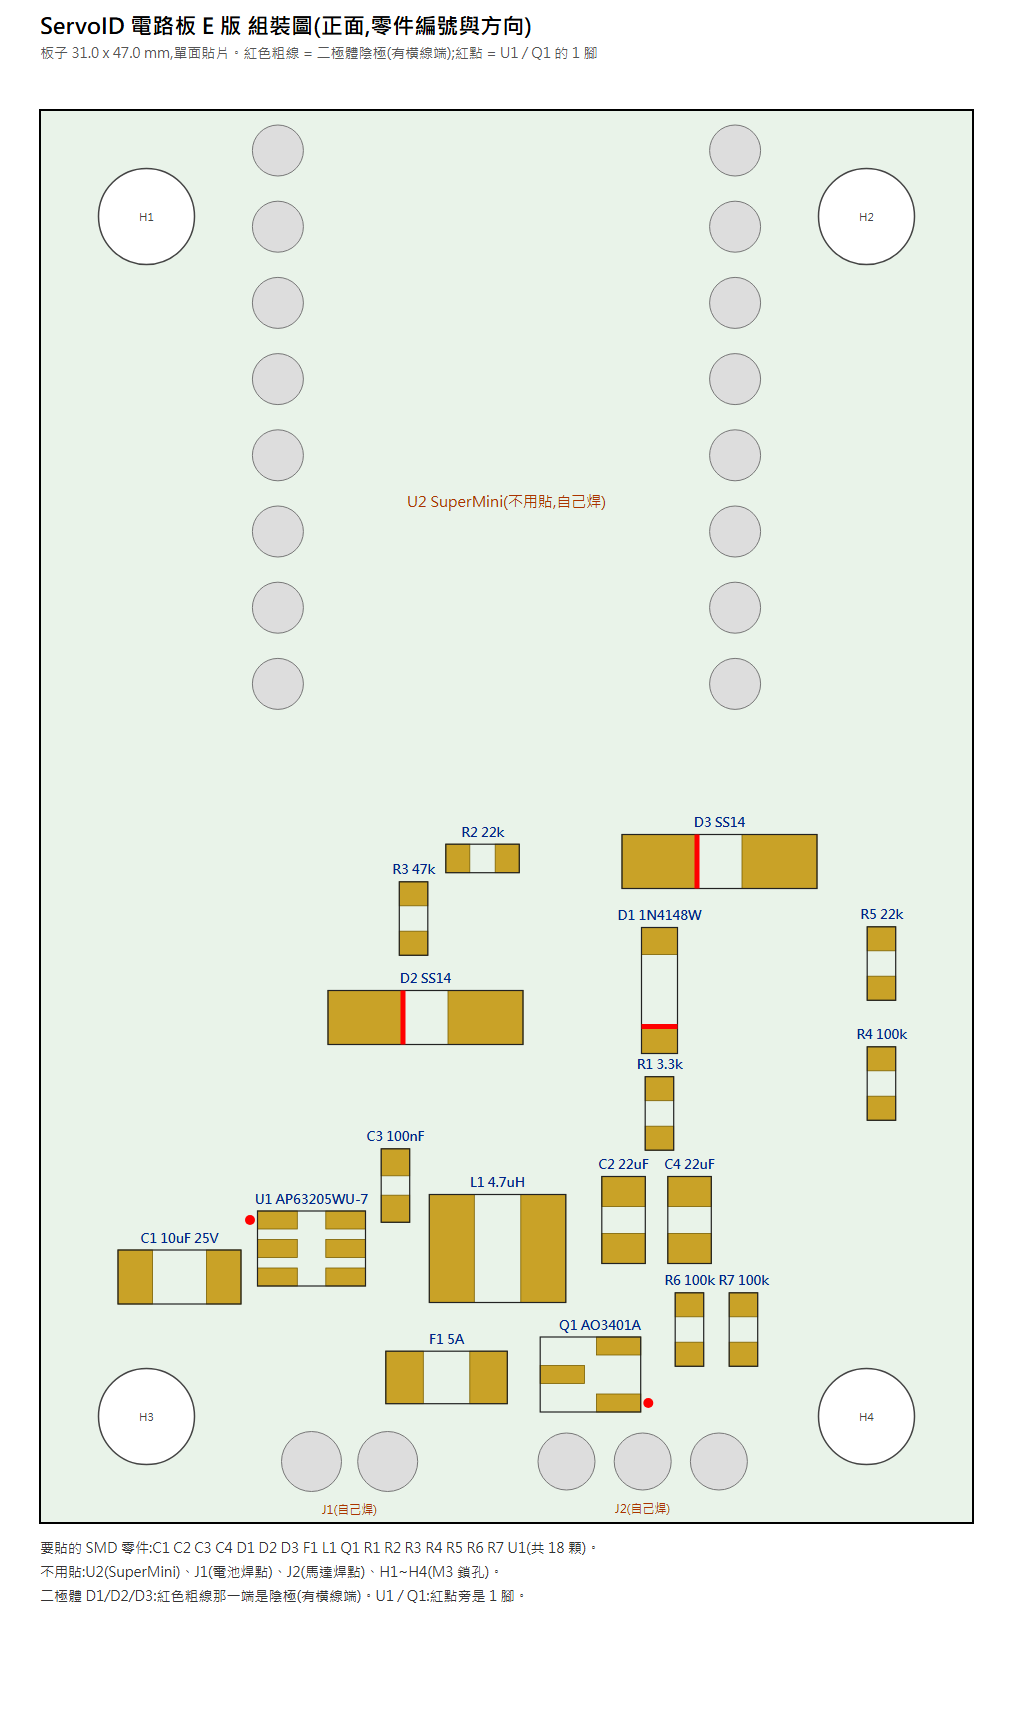
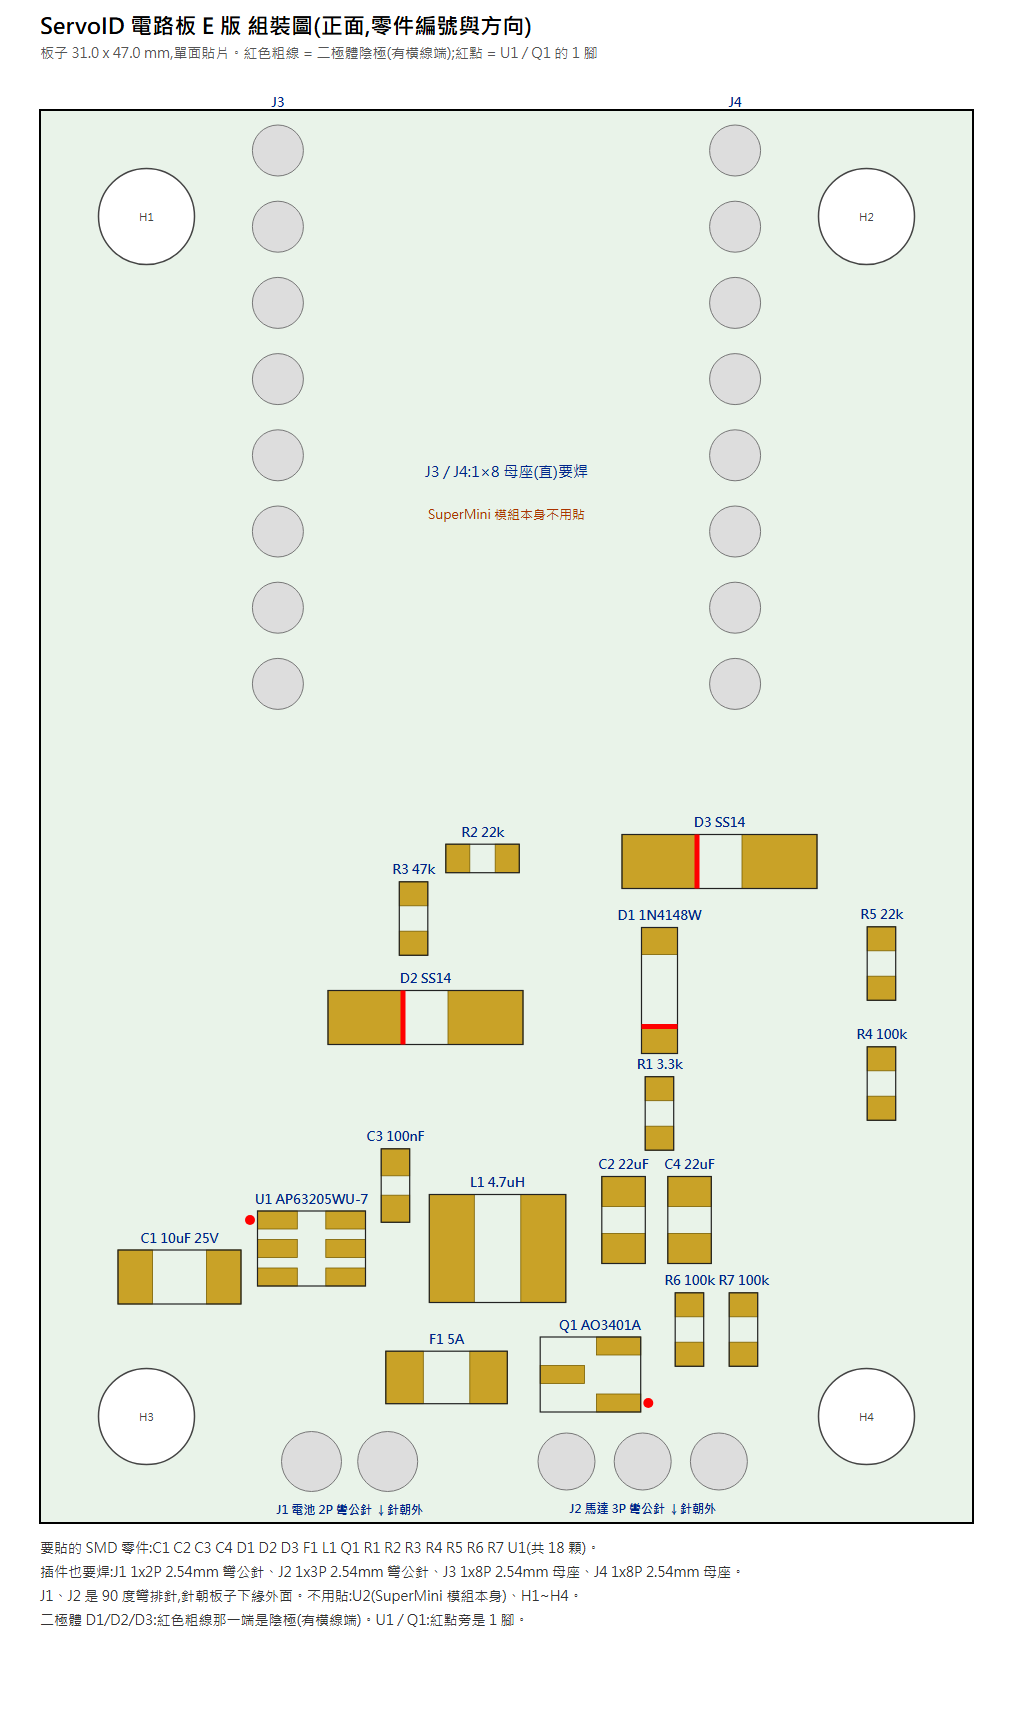
ServoID E board: JLCPCB through-hole assembly (pin headers + SuperMini sockets), English-named upload files
- tht_parts.py: J1 2P / J2 3P right-angle male headers (C54907645 / C54907646), J3/J4 1x8P female sockets (C27438)
- make_order_pack.py / assembly_svg.py: read tht_parts.py, add the parts to BOM/CPL/assembly drawing/spec, note Standard PCBA is required
- make_upload.py + Upload_E/: JLCPCB upload page only accepts English file names; English-only BOM/CPL/Gerber copies
- E order pack regenerated

Changed region(s): [[0.0304, 0.8628, 0.5167, 0.9552], [0.4255, 0.2465, 0.5775, 0.3081], [0.5775, 0.8628, 0.699, 0.8936]]

diff --git a/ServoID_Module/PCB/make_order_pack.py b/ServoID_Module/PCB/make_order_pack.py
@@ -15,6 +15,9 @@ b = pcbnew.LoadBoard(os.path.join(HERE, "ServoID_%s.kicad_pcb" % v))
 bb = b.GetBoardEdgesBoundingBox()
 BW, BH = round(bb.GetWidth() / 1e6 - 0.1, 1), round(bb.GetHeight() / 1e6 - 0.1, 1)
 smd = sorted(fp.GetReference() for fp in b.GetFootprints() if fp.GetAttributes() & pcbnew.FP_SMD)
+sys.path.insert(0, HERE)
+from tht_parts import THT
+tht = THT.get(v, [])          # 這一版要 JLCPCB 代焊的插件(排針 / 母座)
 HOLE_NAME = {"U2": "SuperMini", "J1": "電池焊點", "J2": "馬達焊點"}
 holes = {}
 for fp in sorted(b.GetFootprints(), key=lambda f: f.GetReference()):
@@ -47,6 +50,8 @@ with open(os.path.join(dest, "03_CPL_零件位置.csv"), "w", newline="", encodi
             rot_notes.append("%s(%s):KiCad %s° → 檔案內 %d°" % (r[0], r[2], r[5], new))
             r = r[:5] + [str(new)] + r[6:]
         w.writerow(r)
+    for t in tht:             # 插件:座標是焊孔中心,角度已經是 JLC 的方向
+        w.writerow([t[0], t[1], t[2], "%.4f" % t[4], "%.4f" % -t[5], str(t[6]), "top"])
 shutil.copy(os.path.join(fab, "preview_top.png"), os.path.join(dest, "07_預覽_上層.png"))
 shutil.copy(os.path.join(fab, "preview_bottom.png"), os.path.join(dest, "07_預覽_下層.png"))
 
@@ -76,6 +81,11 @@ with open(os.path.join(dest, "02_BOM_零件清單.csv"), "w", newline="", encodi
     w.writerow(rows[0] + ["Spec / 規格說明"])
     for r in rows[1:]:
         w.writerow(r[:4] + [LCSC.get(r[0], "")] + [SPEC.get(r[0], "")])
+    groups = collections.OrderedDict()
+    for t in tht:
+        groups.setdefault(t[3], []).append(t)
+    for lc, ts in groups.items():
+        w.writerow([ts[0][1], ",".join(t[0] for t in ts), ts[0][2], len(ts), lc, ts[0][7]])
 
 # 4 組裝圖
 K = r"C:\Program Files\KiCad\10.0\bin\python.exe"
@@ -120,7 +130,7 @@ open(os.path.join(dest, "05_板子規格與組裝說明.md"), "w", encoding="utf
 
 ## 組裝(SMT)/ Assembly
 - 只貼**頂層(Top side)**,%d 顆 SMD 零件:%s。
-- **不要貼:** U2(ESP32-C3 SuperMini 模組)、J1(電池焊點)、J2(馬達焊點)、H1~H4(M3 鎖孔)。這些是通孔焊盤 / 孔,由客戶自己焊。
+%s
 - 二極體 D1 D2 D3 有極性:組裝圖上紅色粗線那端是陰極(有橫線端)。U1%s 的 1 腳位置見組裝圖(紅點)。
 - 零件規格見 `02_BOM_零件清單.csv` 的 Spec 欄。LCSC 料號欄已填 JLCPCB / LCSC 料號(C 版實際下單、測試可用的那一組%s);給其他廠商時請依 Spec 欄對應。
 - 零件位置檔 `03_CPL_零件位置.csv`:座標單位 mm,Y 軸朝上(KiCad 輸出格式),Mid Y 為負值是正常的。
@@ -135,7 +145,13 @@ open(os.path.join(dest, "05_板子規格與組裝說明.md"), "w", encoding="utf
 6. `06_詢價信範本.txt`
 7. `07_預覽_上層.png` / `07_預覽_下層.png`
 8. `08_接線表_網路.csv`:每個網路接了哪些腳(給確認用)
-""" % (v, BW, BH, hole_txt, len(smd), " ".join(smd), "、Q1" if has_q else "",
+""" % (v, BW, BH, hole_txt, len(smd), " ".join(smd),
+       ("- **插件也請代焊(要選 Standard PCBA,Economic 不焊插件)**,都在頂層:" + "、".join("%s %s(%s)" % (t[0], t[1], t[3]) for t in tht) + "。\n"
+        "  - **J1、J2 是 90 度彎排針,針要朝板子下緣外面**(往內會撞到 Q1 和保險絲);請在擺放預覽確認方向。\n"
+        "  - J3、J4 是 SuperMini 的插座(兩條單排,相距 15.24 mm);SuperMini 模組本身不用貼,客戶自己插。\n"
+        "- **不要貼:** U2(ESP32-C3 SuperMini 模組)、H1~H4(M3 鎖孔)。") if tht else
+       "- **不要貼:** U2(ESP32-C3 SuperMini 模組)、J1(電池焊點)、J2(馬達焊點)、H1~H4(M3 鎖孔)。這些是通孔焊盤 / 孔,由客戶自己焊。",
+       "、Q1" if has_q else "",
        ";Q1 = C15127 是這版新增的" if has_q else "", ";".join(rot_notes),
        """
 ## 這一版和 C 版的差別 / Changes from version C
@@ -157,7 +173,7 @@ open(os.path.join(dest, "06_詢價信範本.txt"), "w", encoding="utf-8").write(
 
 【SMT 組裝】
 - 只貼頂層,共 %d 顆 SMD(%d 種料號):%s
-- SuperMini 模組與接線焊點由我自己焊,不用貼
+%s
 - 組裝數量:2 片(或 5 片)
 
 【想請教】
@@ -170,7 +186,9 @@ open(os.path.join(dest, "06_詢價信範本.txt"), "w", encoding="utf-8").write(
 檔案說明請看 `05_板子規格與組裝說明.md`。謝謝!
 
 (附件:01_Gerber和鑽孔.zip、02_BOM_零件清單.csv、03_CPL_零件位置.csv、04_組裝圖_零件編號與方向.png、05_板子規格與組裝說明.md)
-""" % (BW, BH, BW, BH, len(smd), len(rows) - 1, cat_txt))
+""" % (BW, BH, BW, BH, len(smd), len(rows) - 1, cat_txt,
+       ("- 插件也請代焊:" + "、".join("%s %s" % (t[0], t[1]) for t in tht) + "(J1、J2 是 90 度彎排針,針朝板子外面)\n- SuperMini 模組本身由我自己插,不用貼")
+       if tht else "- SuperMini 模組與接線焊點由我自己焊,不用貼"))
 
 # 8 接線表
 nets = collections.defaultdict(list)

diff --git a/ServoID_Module/PCB/assembly_svg.py b/ServoID_Module/PCB/assembly_svg.py
@@ -12,6 +12,12 @@ ox, oy = bb.GetX() / 1e6, bb.GetY() / 1e6
 def X(mm): return M + (mm - ox) * S
 def Y(mm): return M + 70 + (mm - oy) * S
 smd_refs = sorted(fp.GetReference() for fp in b.GetFootprints() if fp.GetAttributes() & pcbnew.FP_SMD)
+sys.path.insert(0, HERE)
+from tht_parts import THT
+tht = THT.get(v, [])          # 這一版要 JLCPCB 代焊的插件:組裝圖上標出來
+tht_on = {}                   # 原本的焊盤位號 → 這上面要焊的插件
+for t in tht:
+    tht_on.setdefault(t[9], []).append(t)
 PIN1 = [r for r in ("U1", "Q1") if r in smd_refs]      # 要標 1 腳紅點的零件
 out = []
 out.append('<svg xmlns="http://www.w3.org/2000/svg" width="%d" height="%d" font-family="Microsoft JhengHei, Arial">' % (W * S + 2 * M, H * S + 2 * M + 70 + 150))
@@ -66,14 +72,26 @@ for fp in b.GetFootprints():
             c = p.GetPosition()
             r = p.GetSizeX() / 2e6
             out.append('<circle cx="%.1f" cy="%.1f" r="%.1f" fill="#ddd" stroke="#777" stroke-width="1"/>' % (X(c.x / 1e6), Y(c.y / 1e6), r * S))
-        if ref == "U2":
+        if ref in tht_on and ref == "U2":
+            out.append('<text x="%.1f" y="%.1f" font-size="15" text-anchor="middle" fill="#00258a">J3 / J4:1×8 母座(直)要焊</text>' % (X(cx), Y(cy + 2)))
+            out.append('<text x="%.1f" y="%.1f" font-size="13" text-anchor="middle" fill="#a30">SuperMini 模組本身不用貼</text>' % (X(cx), Y(cy + 3.4)))
+            for t in tht_on[ref]:
+                out.append('<text x="%.1f" y="%.1f" font-size="13" font-weight="bold" text-anchor="middle" fill="#00258a">%s</text>' % (X(t[4]), Y(miny - 0.6), t[8]))
+        elif ref in tht_on:
+            t = tht_on[ref][0]
+            out.append('<text x="%.1f" y="%.1f" font-size="12" font-weight="bold" text-anchor="middle" fill="#00258a">%s ↓針朝外</text>' % (X(cx), Y(maxy + 0.75), t[8]))
+        elif ref == "U2":
             out.append('<text x="%.1f" y="%.1f" font-size="15" text-anchor="middle" fill="#a30">U2 SuperMini(不用貼,自己焊)</text>' % (X(cx), Y(cy + 3)))
         else:
             below = (oy + H - 0.1) - maxy >= 0.9      # 焊點下方到板邊還有空間就標在下方(上方可能有零件)
             out.append('<text x="%.1f" y="%.1f" font-size="12" text-anchor="middle" fill="#a30">%s(自己焊)</text>' % (X(cx), Y(maxy + 0.75) if below else Y(miny - 0.5), ref))
 out.append('<text x="%d" y="%.1f" font-size="14" fill="#333">要貼的 SMD 零件:%s(共 %d 顆)。</text>' % (M, Y(oy) + H * S + 30, " ".join(smd_refs), len(smd_refs)))
-out.append('<text x="%d" y="%.1f" font-size="14" fill="#333">不用貼:U2(SuperMini)、J1(電池焊點)、J2(馬達焊點)、H1~H4(M3 鎖孔)。</text>' % (M, Y(oy) + H * S + 54))
-out.append('<text x="%d" y="%.1f" font-size="14" fill="#333">二極體 D1/D2/D3:紅色粗線那一端是陰極(有橫線端)。%s:紅點旁是 1 腳。</text>' % (M, Y(oy) + H * S + 78, " / ".join(PIN1)))
+if tht:
+    out.append('<text x="%d" y="%.1f" font-size="14" fill="#333">插件也要焊:%s。</text>' % (M, Y(oy) + H * S + 54, "、".join("%s %s" % (t[0], t[1]) for t in tht)))
+    out.append('<text x="%d" y="%.1f" font-size="14" fill="#333">J1、J2 是 90 度彎排針,針朝板子下緣外面。不用貼:U2(SuperMini 模組本身)、H1~H4。</text>' % (M, Y(oy) + H * S + 78))
+else:
+    out.append('<text x="%d" y="%.1f" font-size="14" fill="#333">不用貼:U2(SuperMini)、J1(電池焊點)、J2(馬達焊點)、H1~H4(M3 鎖孔)。</text>' % (M, Y(oy) + H * S + 54))
+out.append('<text x="%d" y="%.1f" font-size="14" fill="#333">二極體 D1/D2/D3:紅色粗線那一端是陰極(有橫線端)。%s:紅點旁是 1 腳。</text>' % (M, Y(oy) + H * S + (102 if tht else 78), " / ".join(PIN1)))
 out.append('</svg>')
 open(os.path.join(HERE, "assembly_%s.svg" % v), "w", encoding="utf-8").write("\n".join(out))
 print("ok")

diff --git a/ServoID_Module/PCB/make_upload.py b/ServoID_Module/PCB/make_upload.py
@@ -1,0 +1,34 @@
+# JLCPCB 上傳頁只收「英文檔名」,內容也最好是英文。從 下單資料_<版本>\ 產生一份上傳用的三個檔。
+# 用法: python make_upload.py E   → Upload_E\ServoID_E_Gerber.zip / ServoID_E_BOM.csv / ServoID_E_CPL.csv
+import csv, os, shutil, sys
+HERE = os.path.dirname(os.path.abspath(__file__))
+v = sys.argv[1]
+src = os.path.join(HERE, "下單資料_%s版" % v)
+dst = os.path.join(HERE, "Upload_%s" % v)
+os.makedirs(dst, exist_ok=True)
+for f in os.listdir(dst):
+    os.remove(os.path.join(dst, f))
+# 中文品名 → 英文(只有排針 / 母座用到)
+EN = {"1x2P 2.54mm 彎公針": "Pin header 1x2P 2.54mm right angle", "1x3P 2.54mm 彎公針": "Pin header 1x3P 2.54mm right angle",
+      "1x8P 2.54mm 母座": "Female header 1x8P 2.54mm vertical"}
+shutil.copy(os.path.join(src, "01_Gerber和鑽孔.zip"), os.path.join(dst, "ServoID_%s_Gerber.zip" % v))
+rows = list(csv.reader(open(os.path.join(src, "02_BOM_零件清單.csv"), encoding="utf-8-sig")))
+with open(os.path.join(dst, "ServoID_%s_BOM.csv" % v), "w", newline="", encoding="utf-8") as f:
+    w = csv.writer(f)
+    for i, r in enumerate(rows):
+        r = r[:5]                                   # Comment, Designator, Footprint, Quantity, LCSC Part #(不要中文說明欄)
+        if i: r[0] = EN.get(r[0], r[0])
+        w.writerow(r)
+rows = list(csv.reader(open(os.path.join(src, "03_CPL_零件位置.csv"), encoding="utf-8")))
+with open(os.path.join(dst, "ServoID_%s_CPL.csv" % v), "w", newline="", encoding="utf-8") as f:
+    w = csv.writer(f)
+    for i, r in enumerate(rows):
+        if i: r[1] = EN.get(r[1], r[1])
+        w.writerow(r)
+bad = []
+for f in os.listdir(dst):
+    if f.endswith(".csv") and any(ord(c) > 127 for c in open(os.path.join(dst, f), encoding="utf-8").read()):
+        bad.append(f)
+print("OK ->", dst)
+for f in sorted(os.listdir(dst)):
+    print("  ", f, "(still has non-ASCII)" if f in bad else "")

diff --git a/ServoID_Module/PCB/tht_parts.py b/ServoID_Module/PCB/tht_parts.py
@@ -1,0 +1,21 @@
+# 請 JLCPCB 代焊的插件(排針 / 母座),要選 Standard PCBA。沒列在這裡的版本 = 插件都自己焊。
+# 每一項:(位號, 名稱, 封裝, LCSC 料號, 中心 x, 中心 y(KiCad 座標 mm,y 向下), JLC 角度, 規格說明, 組裝圖標示, 板子上原本的焊盤位號)
+# 角度依據:JLCPCB 零件頁的 EasyEDA 封裝圖(2026-10-15 看過)
+#   彎排針 C54907645 / C54907646:0° = 一排焊孔、1 腳在左、針往下伸 → 板子上針朝下緣外面,就是 0°
+#   母座 C27438:0° = 橫的一排、1 腳在左 → SuperMini 的孔是直的,轉 270°(1 腳在上)
+THT = {
+    "E": [
+        ("J1", "1x2P 2.54mm 彎公針", "PinHeader_1x02_P2.54mm_Horizontal", "C54907645", 10.27, 45.0, 0,
+         "電池接頭:2.54 mm 單排 2P 公排針,90 度彎(SHOU HAN PZ2.54-1x2PWZ),針朝板子下緣外面;1 腳 = −、2 腳 = +",
+         "J1 電池 2P 彎公針", "J1"),
+        ("J2", "1x3P 2.54mm 彎公針", "PinHeader_1x03_P2.54mm_Horizontal", "C54907646", 20.04, 45.0, 0,
+         "馬達接頭:2.54 mm 單排 3P 公排針,90 度彎(SHOU HAN PZ2.54-1x3PWZ),針朝板子下緣外面;1 腳起 GND / PWR / SIG",
+         "J2 馬達 3P 彎公針", "J2"),
+        ("J3", "1x8P 2.54mm 母座", "PinSocket_1x08_P2.54mm_Vertical", "C27438", 7.88, 10.19, 270,
+         "SuperMini 插座:2.54 mm 單排 8P 母座,直插,高 8.5 mm(BOOMELE)。J3 左排、J4 右排,SuperMini 模組本身不用貼(客戶自己插)",
+         "J3", "U2"),
+        ("J4", "1x8P 2.54mm 母座", "PinSocket_1x08_P2.54mm_Vertical", "C27438", 23.12, 10.19, 270,
+         "SuperMini 插座:2.54 mm 單排 8P 母座,直插,高 8.5 mm(BOOMELE)。J3 左排、J4 右排,SuperMini 模組本身不用貼(客戶自己插)",
+         "J4", "U2"),
+    ],
+}

diff --git a/ServoID_Module/PCB/下單資料_E版/05_板子規格與組裝說明.md b/ServoID_Module/PCB/下單資料_E版/05_板子規格與組裝說明.md
@@ -19,7 +19,10 @@
 
 ## 組裝(SMT)/ Assembly
 - 只貼**頂層(Top side)**,18 顆 SMD 零件:C1 C2 C3 C4 D1 D2 D3 F1 L1 Q1 R1 R2 R3 R4 R5 R6 R7 U1。
-- **不要貼:** U2(ESP32-C3 SuperMini 模組)、J1(電池焊點)、J2(馬達焊點)、H1~H4(M3 鎖孔)。這些是通孔焊盤 / 孔,由客戶自己焊。
+- **插件也請代焊(要選 Standard PCBA,Economic 不焊插件)**,都在頂層:J1 1x2P 2.54mm 彎公針(C54907645)、J2 1x3P 2.54mm 彎公針(C54907646)、J3 1x8P 2.54mm 母座(C27438)、J4 1x8P 2.54mm 母座(C27438)。
+  - **J1、J2 是 90 度彎排針,針要朝板子下緣外面**(往內會撞到 Q1 和保險絲);請在擺放預覽確認方向。
+  - J3、J4 是 SuperMini 的插座(兩條單排,相距 15.24 mm);SuperMini 模組本身不用貼,客戶自己插。
+- **不要貼:** U2(ESP32-C3 SuperMini 模組)、H1~H4(M3 鎖孔)。
 - 二極體 D1 D2 D3 有極性:組裝圖上紅色粗線那端是陰極(有橫線端)。U1、Q1 的 1 腳位置見組裝圖(紅點)。
 - 零件規格見 `02_BOM_零件清單.csv` 的 Spec 欄。LCSC 料號欄已填 JLCPCB / LCSC 料號(C 版實際下單、測試可用的那一組;Q1 = C15127 是這版新增的);給其他廠商時請依 Spec 欄對應。
 - 零件位置檔 `03_CPL_零件位置.csv`:座標單位 mm,Y 軸朝上(KiCad 輸出格式),Mid Y 為負值是正常的。
